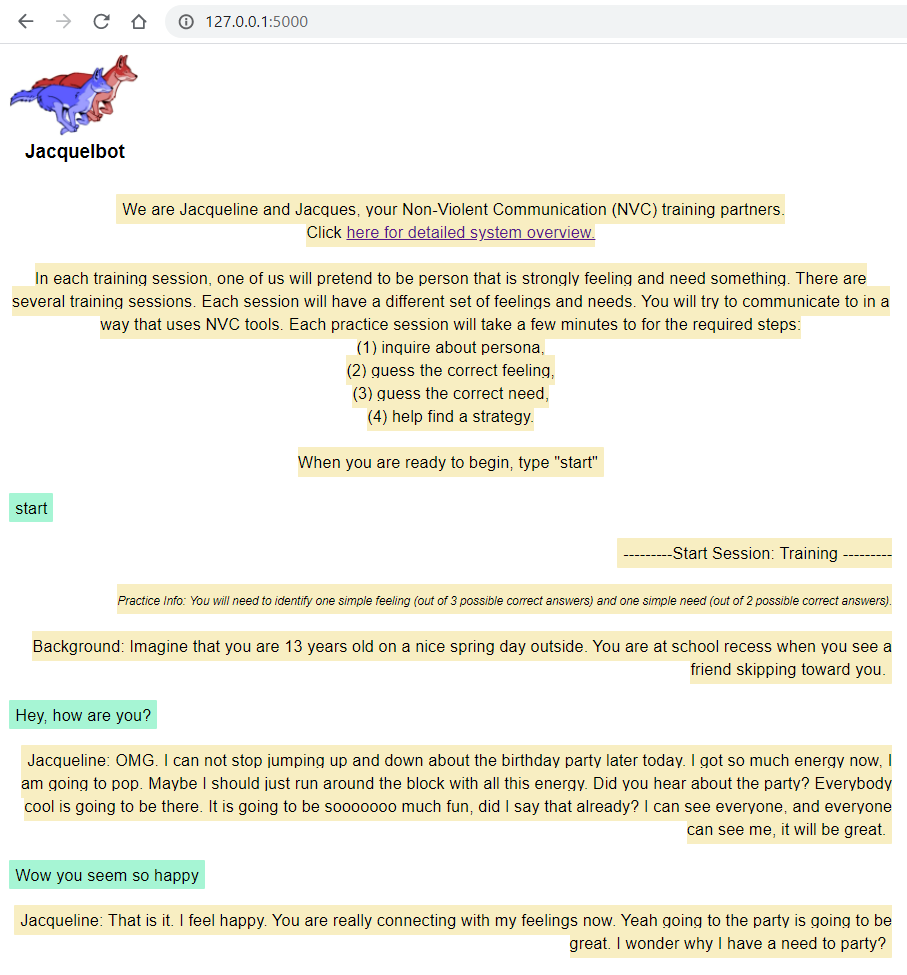
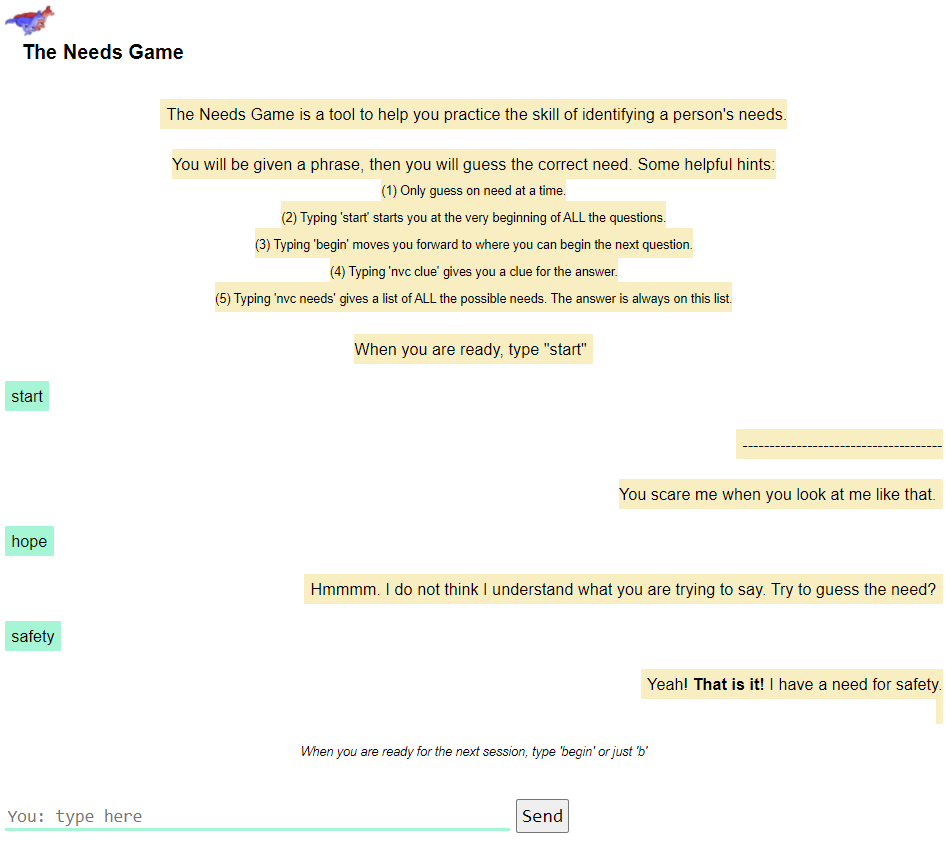
First to cloud
First to Cloud

diff --git a/templates/index.html b/templates/index.html
@@ -9,7 +9,7 @@
     <div>  &nbsp;&nbsp;&nbsp;<b>The Needs Game</b>
     <div>
       <div id="chatbox">
-        <p class="botText"style="text-align:center"><span>The Needs Game is a tool to help you practice the skill of identifying a person's needs. </a><br><br> You will be given a phrase, then you will guess the correct need. Some helpful hints:<br> <font size='1'> (1) Only guess on need at a time.<br> (2) Typing 'start' starts you at the very beginning of ALL the questions. <br> (3) Typing  'begin' moves you forward to where you can begin the next question. <br> (4) Typing  'nvc needs' gives a list of needs. The answer is always on this list. </font><br><br> When you are ready, type "start"  </span></p>      
+        <p class="botText"style="text-align:center"><span>The Needs Game is a tool to help you practice the skill of identifying a person's needs. </a><br><br> You will be given a phrase, then you will guess the correct need. Some helpful hints:<br> <font size='1'> (1) Only guess on need at a time.<br> (2) Typing 'start' starts you at the very beginning of ALL the questions. <br> (3) Typing  'begin' moves you forward to where you can begin the next question. <br>(4) Typing  'nvc clue' gives you a clue for the answer. <br>  (5) Typing  'nvc needs' gives a list of ALL the possible needs. The answer is always on this list. </font><br><br> When you are ready, type "start"  </span></p>      
       </div>
       <div id="userInput">
         <input id="textInput" type="text" name="msg" placeholder="You: type here">

diff --git a/jackalbot.py b/jackalbot.py
@@ -27,16 +27,41 @@ def load_startup_persona_file(startup_file):
         persona_data = json.load(f) 
     return(persona_data)
 
+def load_next_persona(persona_data):
+    starting_persona_file = personas_in_directory_list[current_persona_number]
+    persona_data = load_startup_persona_file(starting_persona_file)
+    bot_host = random.choice(persona_data["jackalbot_hosts"])   #set host from random list      
+    logging.info('introduction:Start of session')
+    startup_info = {k: persona_data[k] for k in ('jackalbot_name', 'jackalbot_created',  'jackalbot_updated', 'jackalbot_version', 'jackalbot_author', 'jackalbot_hosts', 'intro_prompt', 'jackalbot_score_to_move_to_next_stage', 'jackalbot_num_guess_then_offer_clue', 'jackalbot_num_guess_max_then_move_on')}
+    logging.info('session info:%s' % startup_info)
+    # Set global varribles
+    conversation_phase  = 'needs'
+    past_show_scores = False
+    total_score_dictionary = {} #initialize global varrible before giving it to a function
+    total_score_dictionary["did_it_sound_like_nvc_pos"]         = 0.00
+    total_score_dictionary["input_polarity"]                    = 0.00
+    total_score_dictionary["input_subjectivity"]                = 0.00
+    total_score_dictionary["input_response_score"]              = 0.00
+    total_score_dictionary["cleaned_did_it_sound_like_nvc_pos"] = 0.00
+    total_score_dictionary["cleaned_input_polarity"]            = 0.00
+    total_score_dictionary["cleaned_input_subjectivity"]        = 0.00
+    total_score_dictionary["cleaned_input_response_score"]      = 0.00
+    persona_data["show_scores"] = False
+    bot_response = f"------------------------------------- <br><br>"  + persona_data["intro_prompt"] 
+    return bot_response
+
+
 
 def look_for_keyword(user_input, persona_data):
     #check for NVC help
     response = ""
     user_input = ' '.join(user_input)  # to convert from list to string
-    if user_input == 'nvc help' : response = "Type nvc_feelings or nvc_needs to see the list." #
-    if user_input == 'nvc' : response = "Type nvc_feelings or nvc_needs to see the list." #
-    if user_input == 'nvc feelings' : response =  persona_data["feelings_list"]
+    if user_input == 'nvc help' : response = "Type &#39;nvc needs&#39; to see the list." #
+    if user_input == 'nvc' : response = "Type &#39;nvc_needs&#39; to see the list." #
+    #if user_input == 'nvc feelings' : response =  persona_data["feelings_list"]
     if user_input == 'nvc needs' : response =  persona_data["needs_list"] 
-    if user_input == 'nvc end' : response =  "This feature is not ready yet"   # exit() 
+    #if user_input == 'nvc end' : response =  "This feature is not ready yet"   # exit() 
+    if user_input == 'nvc clue' : response =  persona_data["needs_clue"] 
     if user_input == 'nvc scores' : 
         persona_data["show_scores"] = not persona_data["show_scores"]
         response =  f'Show scores set to {persona_data["show_scores"]}'
@@ -240,29 +265,17 @@ def jackalbot_response (user_input):
         return bot_response
 
     if (user_input == "begin")  or (user_input == "b")    :  #tart the next session
-        current_persona_number = current_persona_number + 1    #set to 0 to start at begining of list
-        starting_persona_file = personas_in_directory_list[current_persona_number]
-        persona_data = load_startup_persona_file(starting_persona_file)
-        bot_host = random.choice(persona_data["jackalbot_hosts"])   #set host from random list      
-        logging.info('introduction:Start of session')
-        startup_info = {k: persona_data[k] for k in ('jackalbot_name', 'jackalbot_created',  'jackalbot_updated', 'jackalbot_version', 'jackalbot_author', 'jackalbot_hosts', 'intro_prompt', 'jackalbot_score_to_move_to_next_stage', 'jackalbot_num_guess_then_offer_clue', 'jackalbot_num_guess_max_then_move_on')}
-        logging.info('session info:%s' % startup_info)
-        # Set global varribles
-        conversation_phase  = 'needs'
-        past_show_scores = False
-        total_score_dictionary = {} #initialize global varrible before giving it to a function
-        total_score_dictionary["did_it_sound_like_nvc_pos"]         = 0.00
-        total_score_dictionary["input_polarity"]                    = 0.00
-        total_score_dictionary["input_subjectivity"]                = 0.00
-        total_score_dictionary["input_response_score"]              = 0.00
-        total_score_dictionary["cleaned_did_it_sound_like_nvc_pos"] = 0.00
-        total_score_dictionary["cleaned_input_polarity"]            = 0.00
-        total_score_dictionary["cleaned_input_subjectivity"]        = 0.00
-        total_score_dictionary["cleaned_input_response_score"]      = 0.00
-
-        persona_data["show_scores"] = False
-        bot_response = f"------------------------------------- <br><br>"  + persona_data["intro_prompt"] 
-        return bot_response
+        try :
+            current_persona_number = current_persona_number + 1    #set to 0 to start at begining of list
+        except :
+            bot_response = f"-------------------Enter &#39;start&#39; to play.-------------------"
+            return bot_response
+        
+        if current_persona_number > len(personas_in_directory_list) :
+            bot_response = f"------------------------------------- <br>"  +"This is the end of the session.  Enter &#39;start&#39; to play again."
+            return bot_response
+        else :
+            load_next_persona(persona_data)
 
     if (user_input != "yy")  or (user_input != "start") or (user_input == "begin"):
         try:

diff --git a/README.md b/README.md
@@ -25,11 +25,10 @@
 
 ## Optional Deploying to Google
 
-Some samples in this repositories may have special deployment instructions. Refer to the readme in the sample directory.
-
 1. Use the [Google Developers Console](https://console.developer.google.com)  to create a project/app id. (App id and project id are identical)
 
-2. Setup the gcloud tool, if you haven't already. Then use gcloud to deploy your app
+2.  Watch this https://www.youtube.com/watch?v=F7R8dEin6ZY
+    Setup the gcloud tool, if you haven't already. Then use gcloud to deploy your app
    ```
    gcloud init
    gcloud app deploy
@@ -38,5 +37,5 @@ Some samples in this repositories may have special deployment instructions. Refe
    
 ## Should look like this
    
-![image](https://user-images.githubusercontent.com/24612642/127243533-01abc988-21ac-4437-9cbe-62f4389f7090.png)
+![image](static\images\image8.png)
    
